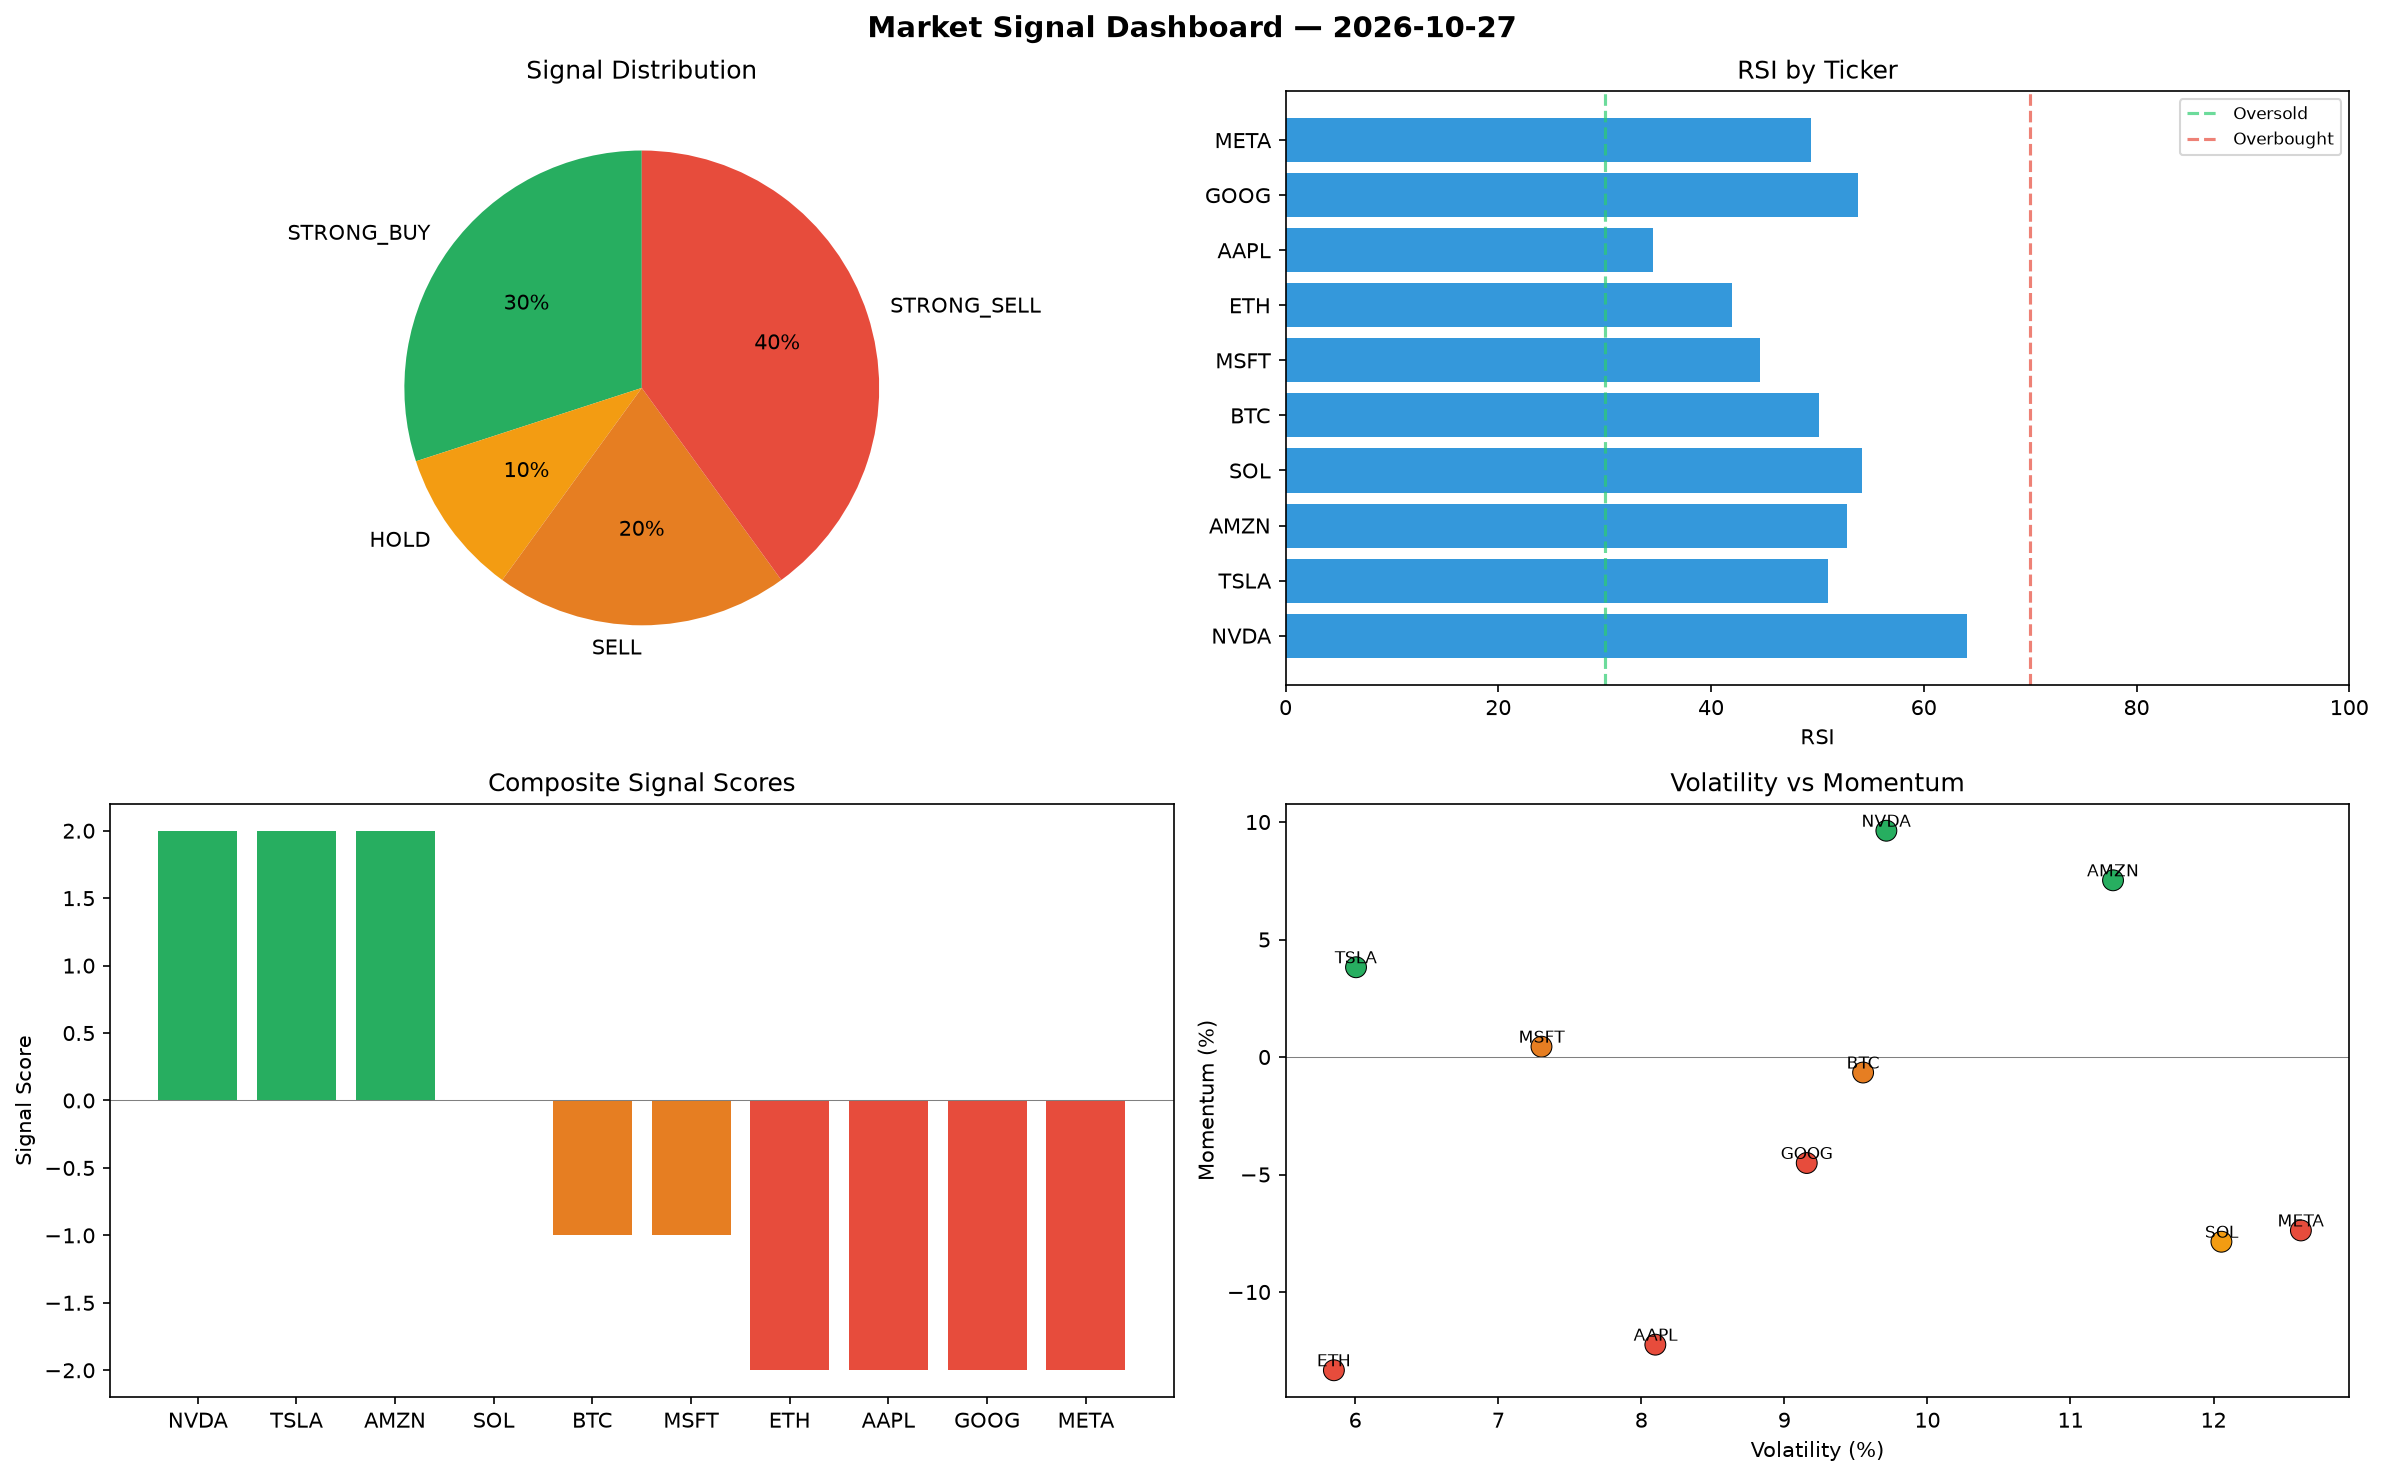
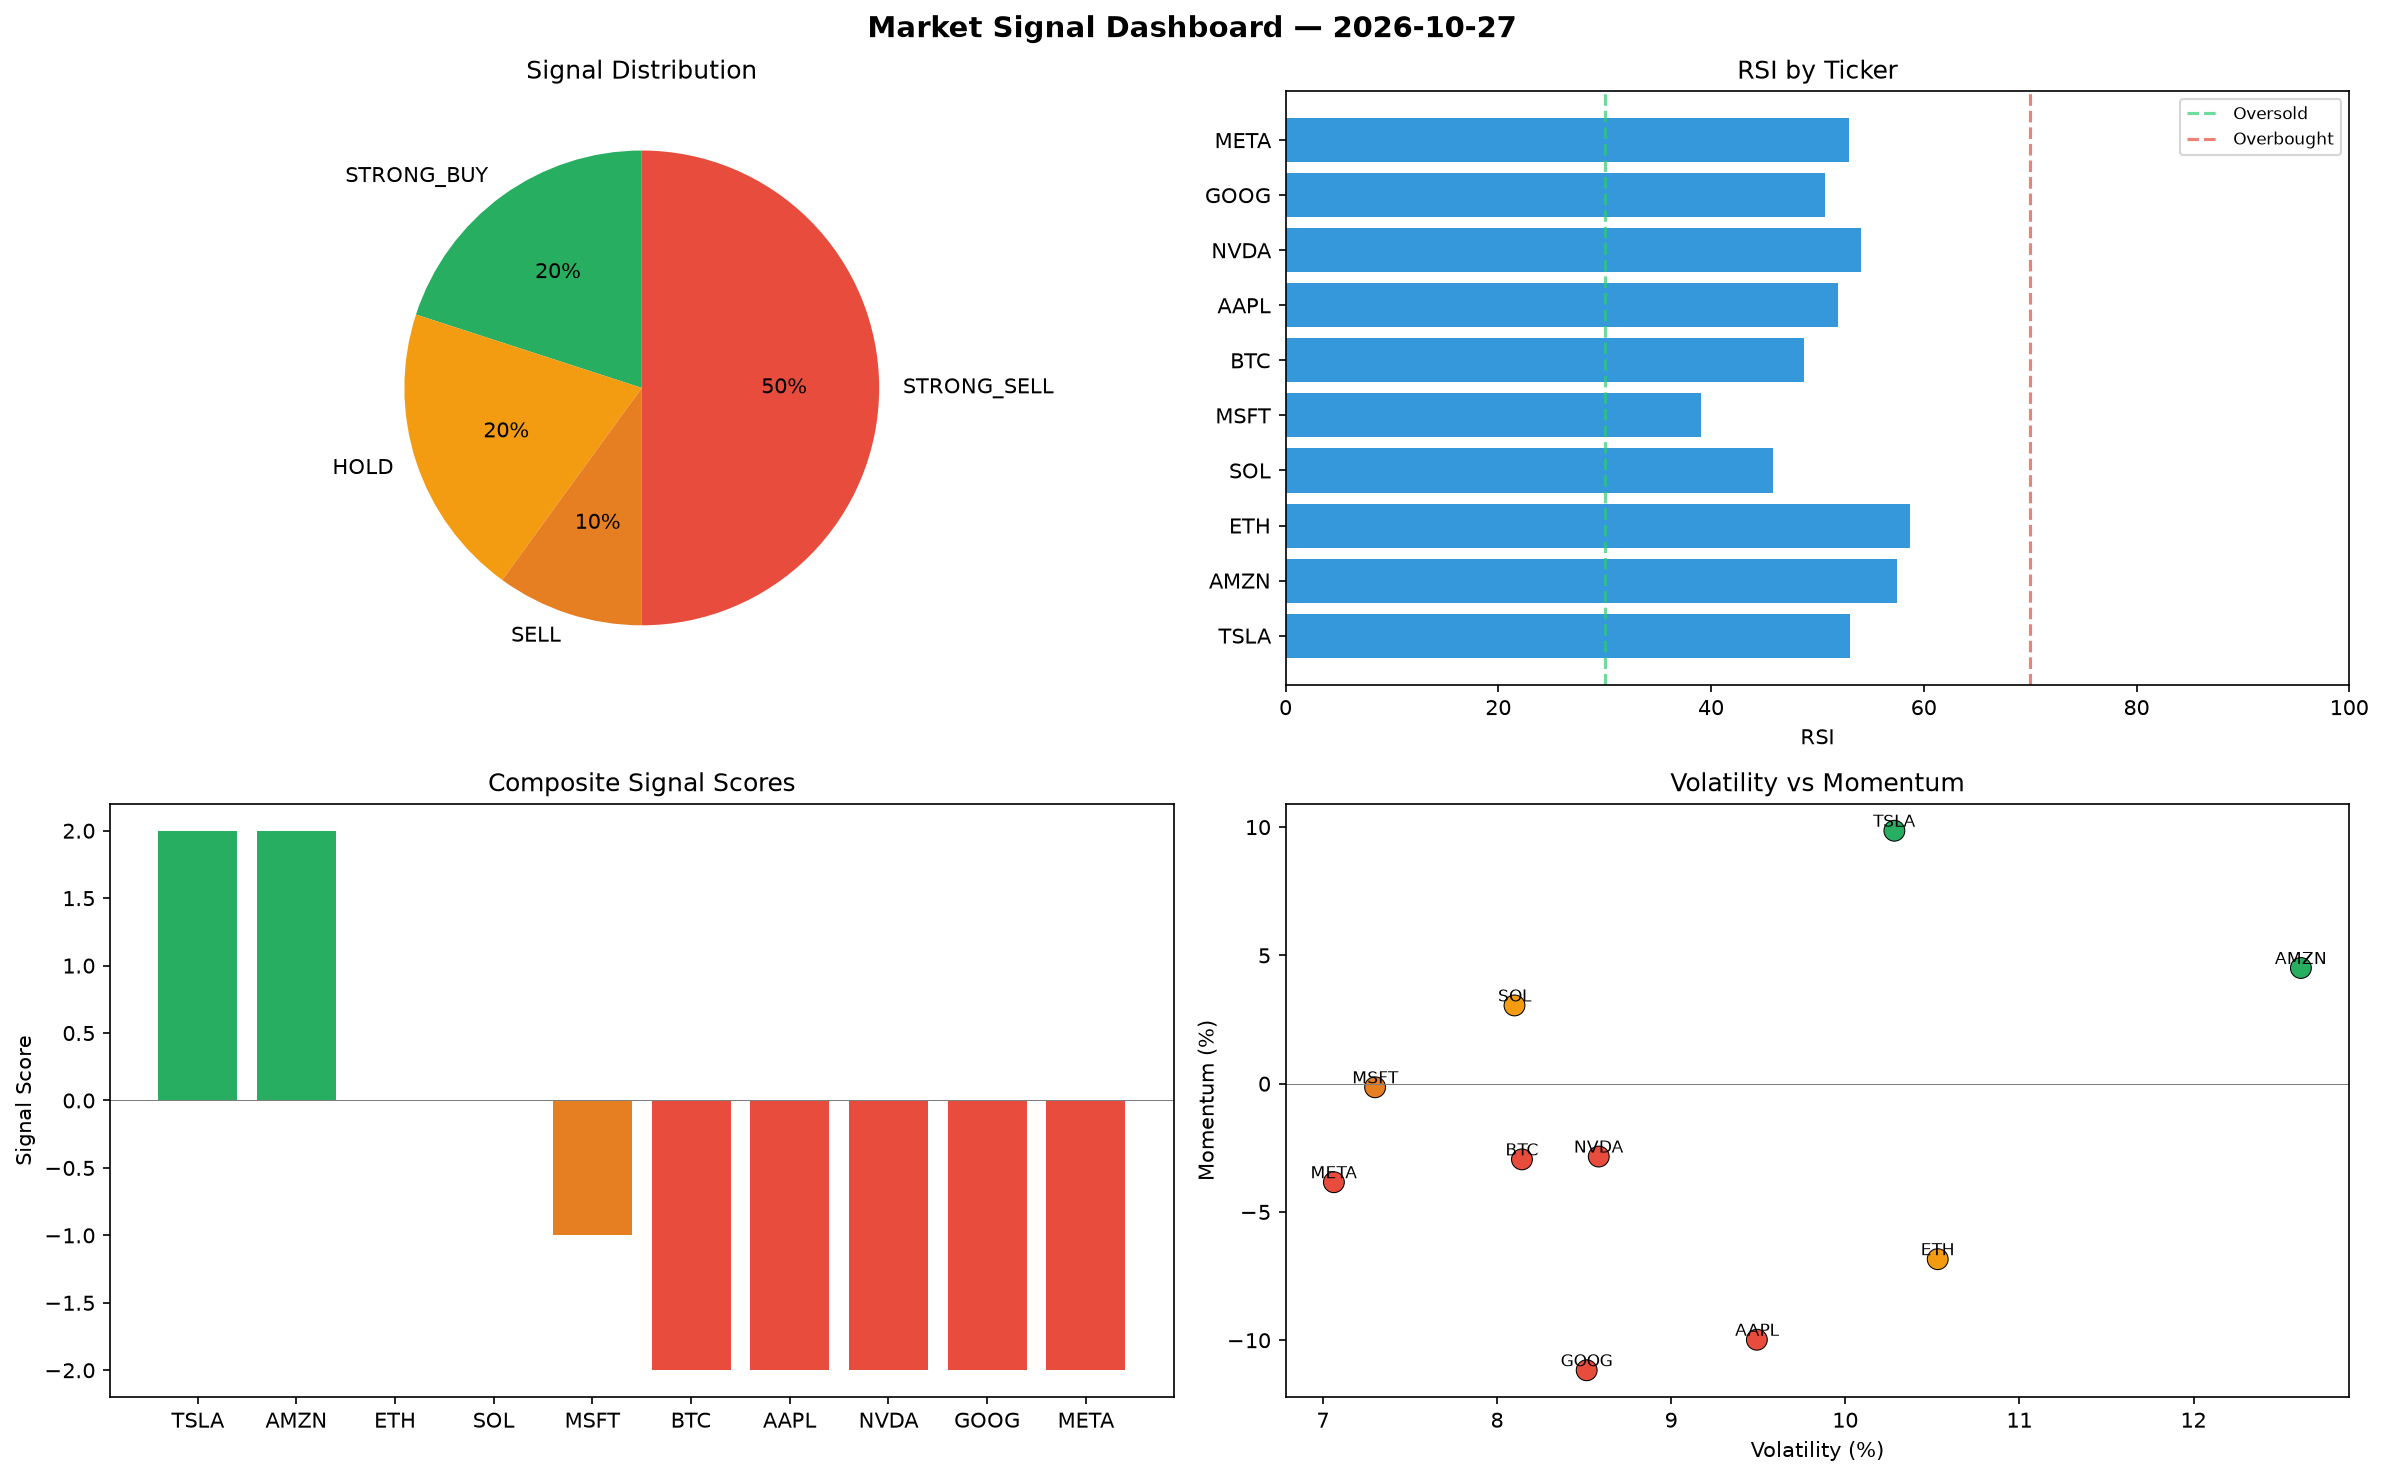
automated-bots: market signals 2026-10-27T23:52

diff --git a/logs/2026-10-27.md b/logs/2026-10-27.md
@@ -1,6 +1,6 @@
 # Market Signal Report — 2026-10-27
 
-**Run ID:** `67629347a2` | **Buy:** 3 | **Sell:** 6 | **Hold:** 1
+**Run ID:** `a6a43a4a45` | **Buy:** 2 | **Sell:** 6 | **Hold:** 2
 
 ![Dashboard](2026-10-27_dashboard.png)
 
@@ -8,28 +8,28 @@
 
 | Ticker | Price | Signal | Score | RSI | Momentum | Confidence |
 |--------|-------|--------|-------|-----|----------|------------|
-| NVDA | $4619.3 | **STRONG_BUY** | 2 | 64.09 | 0.0963 | 0.5 |
-| TSLA | $5088.12 | **STRONG_BUY** | 2 | 51.0 | 0.0382 | 0.5 |
-| AMZN | $3922.62 | **STRONG_BUY** | 2 | 52.76 | 0.0752 | 0.5 |
-| SOL | $1772.55 | **HOLD** | 0 | 54.17 | -0.0786 | 0.0 |
-| BTC | $3444.35 | **SELL** | -1 | 50.14 | -0.0066 | 0.25 |
-| MSFT | $73.73 | **SELL** | -1 | 44.57 | 0.0044 | 0.25 |
-| ETH | $2742.83 | **STRONG_SELL** | -2 | 41.99 | -0.1333 | 0.5 |
-| AAPL | $3994.72 | **STRONG_SELL** | -2 | 34.56 | -0.1224 | 0.5 |
-| GOOG | $599.44 | **STRONG_SELL** | -2 | 53.78 | -0.0451 | 0.5 |
-| META | $4423.27 | **STRONG_SELL** | -2 | 49.43 | -0.0738 | 0.5 |
+| TSLA | $5566.3 | **STRONG_BUY** | 2 | 53.02 | 0.0986 | 0.5 |
+| AMZN | $2703.02 | **STRONG_BUY** | 2 | 57.44 | 0.0451 | 0.5 |
+| ETH | $1110.32 | **HOLD** | 0 | 58.75 | -0.0684 | 0.0 |
+| SOL | $4761.42 | **HOLD** | 0 | 45.82 | 0.0305 | 0.0 |
+| MSFT | $1930.8 | **SELL** | -1 | 39.05 | -0.0014 | 0.25 |
+| BTC | $4352.85 | **STRONG_SELL** | -2 | 48.71 | -0.0295 | 0.5 |
+| AAPL | $4100.29 | **STRONG_SELL** | -2 | 51.91 | -0.0998 | 0.5 |
+| NVDA | $4050.55 | **STRONG_SELL** | -2 | 54.1 | -0.0284 | 0.5 |
+| GOOG | $43.32 | **STRONG_SELL** | -2 | 50.76 | -0.1117 | 0.5 |
+| META | $4502.81 | **STRONG_SELL** | -2 | 53.01 | -0.0384 | 0.5 |
 
 ## Delta vs Yesterday
 
 | Ticker | Today | Yesterday | Price Change | Signal Changed |
 |--------|-------|-----------|-------------|----------------|
-| NVDA | STRONG_BUY | SELL | 📈 2181.7% | ⚠ YES |
-| TSLA | STRONG_BUY | HOLD | 📈 4.0% | ⚠ YES |
-| AMZN | STRONG_BUY | STRONG_BUY | 📈 0.17% | — |
-| SOL | HOLD | STRONG_SELL | 📉 -28.3% | ⚠ YES |
-| BTC | SELL | STRONG_SELL | 📉 -23.23% | ⚠ YES |
-| MSFT | SELL | HOLD | 📉 -97.19% | ⚠ YES |
-| ETH | STRONG_SELL | HOLD | 📉 -32.55% | ⚠ YES |
-| AAPL | STRONG_SELL | STRONG_SELL | 📈 417.71% | — |
-| GOOG | STRONG_SELL | HOLD | 📉 -74.23% | ⚠ YES |
-| META | STRONG_SELL | STRONG_BUY | 📈 211.13% | ⚠ YES |
+| TSLA | STRONG_BUY | HOLD | 📈 13.77% | ⚠ YES |
+| AMZN | STRONG_BUY | STRONG_BUY | 📉 -30.97% | — |
+| ETH | HOLD | HOLD | 📉 -72.69% | — |
+| SOL | HOLD | STRONG_SELL | 📈 92.6% | ⚠ YES |
+| MSFT | SELL | HOLD | 📉 -26.42% | ⚠ YES |
+| BTC | STRONG_SELL | STRONG_SELL | 📉 -2.98% | — |
+| AAPL | STRONG_SELL | STRONG_SELL | 📈 431.39% | — |
+| NVDA | STRONG_SELL | SELL | 📈 1900.77% | ⚠ YES |
+| GOOG | STRONG_SELL | HOLD | 📉 -98.14% | ⚠ YES |
+| META | STRONG_SELL | STRONG_BUY | 📈 216.72% | ⚠ YES |
